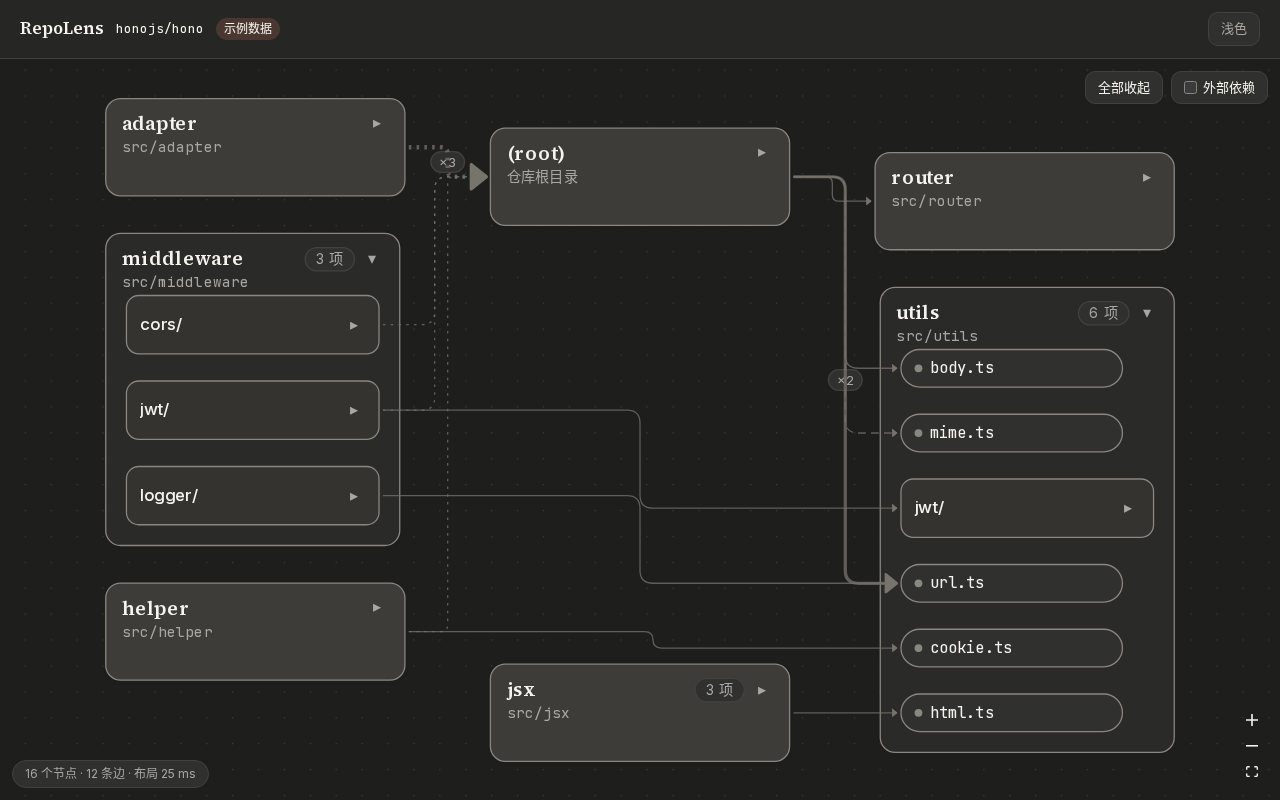
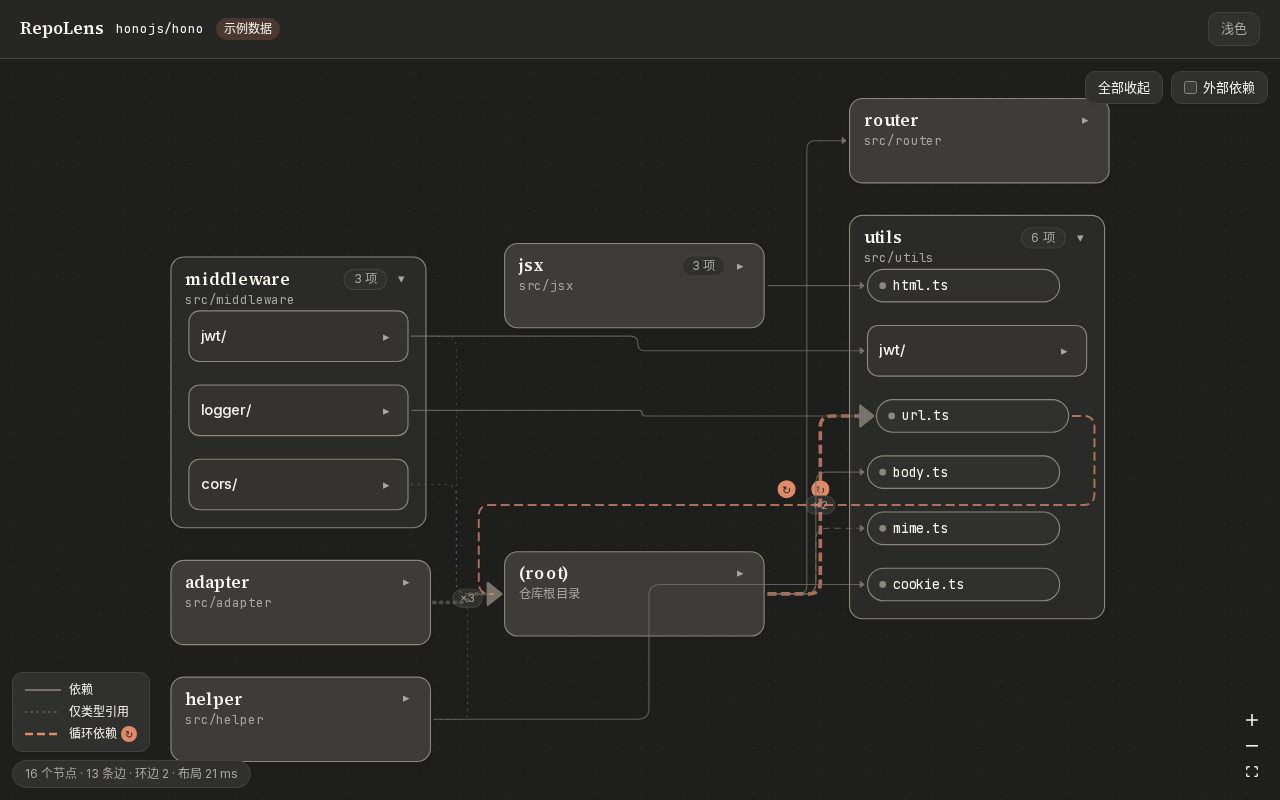
feat(web): 环边(--accent-strong 虚线 + ↻ 标记)、type-only 淡点线与图例;hono 示例 fixture 加一个示例环

Changed region(s): [[0.0312, 0.125, 0.9375, 0.9688], [0.6562, 0.875, 0.7812, 0.9062], [0.8438, 0.375, 0.875, 0.4062]]

diff --git a/apps/web/components/graph/GraphView.tsx b/apps/web/components/graph/GraphView.tsx
@@ -12,6 +12,7 @@ import {
 import {
   aggregateEdges,
   countChildren,
+  cycleEdgeKeys,
   deriveExternal,
   makeVisibility,
   SliceTooLargeError,
@@ -92,6 +93,7 @@ function Inner({ source, owner, repo, engine }: GraphViewProps) {
     const vis = makeVisibility(state.nodes, state.expanded, source.parentOf);
     const visible = state.nodes.filter((n) => vis.isVisible(n.id));
     let edges = aggregateEdges(state.edges, vis.visibleAncestor);
+    const cycleKeys = cycleEdgeKeys(state.edges, source.cycles?.() ?? [], vis.visibleAncestor);
     let nodes = visible;
     if (state.includeExternal) {
       const files = state.nodes.filter((n) => n.type === 'file');
@@ -99,7 +101,7 @@ function Inner({ source, owner, repo, engine }: GraphViewProps) {
       nodes = [...visible, ...ext.nodes];
       edges = [...edges, ...ext.edges];
     }
-    return { nodes, edges };
+    return { nodes, edges, cycleKeys };
   }, [state.nodes, state.edges, state.expanded, state.includeExternal, source]);
 
   useEffect(() => {
@@ -118,10 +120,20 @@ function Inner({ source, owner, repo, engine }: GraphViewProps) {
           for (const [id, [x, y]] of Object.entries(file.positions))
             if (layout.positions.has(id)) layout.positions.set(id, { x, y });
         setFlow(
-          toFlow(derived.nodes, derived.edges, layout, state.expanded, countChildren(state.nodes)),
+          toFlow(
+            derived.nodes,
+            derived.edges,
+            layout,
+            state.expanded,
+            countChildren(state.nodes),
+            derived.cycleKeys,
+          ),
         );
+        const nCycle = derived.edges.filter((e) =>
+          derived.cycleKeys.has(`${e.source}->${e.target}`),
+        ).length;
         setStatus(
-          `${derived.nodes.length} 个节点 · ${derived.edges.length} 条边 · 布局 ${Math.round(performance.now() - t0)} ms`,
+          `${derived.nodes.length} 个节点 · ${derived.edges.length} 条边${nCycle ? ` · 环边 ${nCycle}` : ''} · 布局 ${Math.round(performance.now() - t0)} ms`,
         );
         requestAnimationFrame(() => fitView({ padding: 0.12, duration: 300 }));
       })
@@ -185,6 +197,7 @@ function Inner({ source, owner, repo, engine }: GraphViewProps) {
           <Background variant={BackgroundVariant.Dots} gap={20} size={1} color="var(--border)" />
           <Controls showInteractive={false} position="bottom-right" />
         </ReactFlow>
+        <Legend />
         <div
           role="status"
           className="absolute bottom-3 left-3 z-10 rounded-full border border-line bg-panel px-3 py-1 text-[12px] text-muted"
@@ -196,6 +209,59 @@ function Inner({ source, owner, repo, engine }: GraphViewProps) {
         </div>
       </div>
     </ToggleContext.Provider>
+  );
+}
+
+/** 图例:投屏时靠颜色 + 线型 + 标记三重区分 */
+function Legend() {
+  const row = 'flex items-center gap-2';
+  return (
+    <div
+      aria-label="图例"
+      className="absolute bottom-12 left-3 z-10 flex flex-col gap-1 rounded-control border border-line bg-panel px-3 py-2 text-[12px] text-fg shadow-soft"
+    >
+      <div className={row}>
+        <svg width="36" height="8" aria-hidden>
+          <line x1="0" y1="4" x2="36" y2="4" stroke="var(--edge)" strokeWidth="2" />
+        </svg>
+        依赖
+      </div>
+      <div className={row}>
+        <svg width="36" height="8" aria-hidden>
+          <line
+            x1="0"
+            y1="4"
+            x2="36"
+            y2="4"
+            stroke="var(--edge)"
+            strokeWidth="2"
+            strokeDasharray="1 5"
+            strokeLinecap="round"
+            strokeOpacity="0.55"
+          />
+        </svg>
+        仅类型引用
+      </div>
+      <div className={row}>
+        <svg width="36" height="8" aria-hidden>
+          <line
+            x1="0"
+            y1="4"
+            x2="36"
+            y2="4"
+            stroke="var(--accent-strong)"
+            strokeWidth="2.5"
+            strokeDasharray="8 4"
+          />
+        </svg>
+        <span className="inline-flex items-center gap-1">
+          循环依赖
+          <span className="rounded-full bg-accent-strong px-1 text-[10px] leading-4 text-on-accent">
+            ↻
+          </span>
+        </span>
+      </div>
+    </div>
   );
 }
 

diff --git a/apps/web/components/graph/WeightedEdge.tsx b/apps/web/components/graph/WeightedEdge.tsx
@@ -3,7 +3,9 @@ import { memo } from 'react';
 import { BaseEdge, EdgeLabelRenderer, getSmoothStepPath, type EdgeProps } from '@xyflow/react';
 import { edgeWidth, type RepoFlowEdge } from '../../lib/graph/toFlow';
 
-const DASH: Record<string, string | undefined> = { 'type-only': '2 4', dynamic: '6 4' };
+// type-only:更淡的圆点线;dynamic:短虚线;环边:--accent-strong 长虚线 + 中点 ↻ 标记(优先级最高)
+const DASH: Record<string, string | undefined> = { 'type-only': '1 5', dynamic: '6 4' };
+const CYCLE_DASH = '8 4';
 
 /** 聚合边按 weight 定粗细并标注 weight;type-only 点线、dynamic 短虚线 */
 export const WeightedEdge = memo(function WeightedEdge(props: EdgeProps<RepoFlowEdge>) {
@@ -21,18 +23,37 @@ export const WeightedEdge = memo(function WeightedEdge(props: EdgeProps<RepoFlow
   const weight = data?.weight ?? 1;
   const aggregated = data?.aggregated ?? false;
   const hl = data?.highlight;
+  const cycle = data?.cycle === true;
+  const typeOnly = !cycle && data?.kind === 'type-only';
+  const base = hl === 'on' || cycle ? 'var(--accent-strong)' : 'var(--edge)';
+  const opacity = hl === 'dim' ? 0.15 : typeOnly ? 0.55 : aggregated ? 0.75 : 0.9;
   return (
     <>
       <BaseEdge
         path={path}
         markerEnd={markerEnd}
         style={{
-          stroke: hl === 'on' ? 'var(--accent-strong)' : 'var(--edge)',
-          strokeWidth: edgeWidth(weight, aggregated) + (hl === 'on' ? 0.75 : 0),
-          strokeOpacity: hl === 'dim' ? 0.15 : aggregated ? 0.75 : 0.9,
-          strokeDasharray: DASH[data?.kind ?? ''],
+          stroke: base,
+          strokeWidth: edgeWidth(weight, aggregated) + (hl === 'on' || cycle ? 0.75 : 0),
+          strokeOpacity: opacity,
+          strokeDasharray: cycle ? CYCLE_DASH : DASH[data?.kind ?? ''],
+          strokeLinecap: typeOnly ? 'round' : undefined,
         }}
       />
+      {cycle && hl !== 'dim' && (
+        <EdgeLabelRenderer>
+          <div
+            data-testid={`cycle-mark-${props.id}`}
+            title="循环依赖"
+            className="pointer-events-none absolute rounded-full bg-accent-strong px-1 text-[10px] leading-4 text-on-accent"
+            style={{
+              transform: `translate(-50%, -50%) translate(${labelX}px, ${labelY - 14}px)`,
+            }}
+          >
+            ↻
+          </div>
+        </EdgeLabelRenderer>
+      )}
       {aggregated && weight > 1 && hl !== 'dim' && (
         <EdgeLabelRenderer>
           <div

diff --git a/apps/web/lib/graph/graph.test.ts b/apps/web/lib/graph/graph.test.ts
@@ -8,6 +8,7 @@ import {
 import { SAMPLE_REPOS } from '../fixtures';
 import {
   aggregateEdges,
+  cycleEdgeKeys,
   assertSliceSize,
   makeVisibility,
   sliceGraph,
@@ -257,5 +258,32 @@ describe('highlightSelection', () => {
     expect(v.nodes.find((n) => n.id === 'a')!.selected).toBe(true);
     expect(v.edges.map((e) => e.data!.highlight)).toEqual(['on', 'on', 'dim']);
     expect([v.out, v.in]).toEqual([1, 1]);
+  });
+});
+
+describe('cycleEdgeKeys(环边)', () => {
+  const hono = GraphDataSchema.parse(SAMPLE_REPOS.hono.data);
+  const parents = new Map(hono.nodes.map((n) => [n.id, n.parentId]));
+  const topModule = (id: string): string | null => {
+    let cur: string | null | undefined = id;
+    while (cur && parents.get(cur)) cur = parents.get(cur);
+    return cur ?? null;
+  };
+  it('hono 示例 fixture 带一个合法的示例环', () => {
+    expect(hono.meta.cycles).toEqual([['f:src/request.ts', 'f:src/utils/url.ts']]);
+  });
+  it('文件层:环上的两条原始边都被标记,其余不标', () => {
+    const keys = cycleEdgeKeys(hono.edges, hono.meta.cycles!, (id) => id);
+    expect([...keys].sort()).toEqual([
+      'f:src/request.ts->f:src/utils/url.ts',
+      'f:src/utils/url.ts->f:src/request.ts',
+    ]);
+  });
+  it('上卷到 module 层后变成 m:. ⇄ m:src/utils 两条聚合边', () => {
+    const keys = cycleEdgeKeys(hono.edges, hono.meta.cycles!, topModule);
+    expect([...keys].sort()).toEqual(['m:.->m:src/utils', 'm:src/utils->m:.']);
+  });
+  it('环内两端上卷到同一节点时不产生环边', () => {
+    expect(cycleEdgeKeys(hono.edges, hono.meta.cycles!, () => 'm:.').size).toBe(0);
   });
 });

diff --git a/apps/web/lib/graph/toFlow.ts b/apps/web/lib/graph/toFlow.ts
@@ -18,6 +18,8 @@ export type RepoEdgeData = {
   kind: GraphEdge['kind'];
   /** 有选中节点时:与之相连为 on,否则 dim;无选中为 undefined */
   highlight?: 'on' | 'dim';
+  /** 在 meta.cycles 的某个环上 */
+  cycle?: boolean;
 };
 export type RepoFlowEdge = Edge<RepoEdgeData, 'weighted'>;
 
@@ -38,6 +40,7 @@ export function toFlow(
   layout: LayoutResult,
   expanded: ReadonlySet<string>,
   childCounts: ReadonlyMap<string, number>,
+  cycleKeys: ReadonlySet<string> = new Set(),
 ): { nodes: RepoFlowNode[]; edges: RepoFlowEdge[] } {
   const visibleIds = new Set(visible.map((n) => n.id));
   const placed = new Set<string>();
@@ -80,7 +83,12 @@ export function toFlow(
     target: e.target,
     type: 'weighted',
     zIndex: 2,
-    data: { weight: e.weight, aggregated: e.aggregated === true, kind: e.kind },
+    data: {
+      weight: e.weight,
+      aggregated: e.aggregated === true,
+      kind: e.kind,
+      cycle: cycleKeys.has(`${e.source}->${e.target}`),
+    },
   }));
   return { nodes, edges: flowEdges };
 }

diff --git a/apps/web/components/graph/GraphView.test.tsx b/apps/web/components/graph/GraphView.test.tsx
@@ -22,6 +22,27 @@ async function mount() {
 }
 const mwFile = '[data-testid^="node-f:src/middleware/"]';
 
+describe('<GraphView> 环边与图例', () => {
+  it('hono 示例的收起视图里有环边标记,图例含「循环依赖」与「仅类型引用」', async () => {
+    const s = SAMPLE_REPOS.hono;
+    const engine = await createInlineEngine();
+    render(
+      <div style={{ width: 1000, height: 700 }}>
+        <GraphView
+          source={createFixtureSource('honojs/hono', s.data)}
+          owner={s.owner}
+          repo={s.repo}
+          engine={engine}
+        />
+      </div>,
+    );
+    await waitFor(() => expect(screen.getByRole('status')).toHaveTextContent('环边 2'));
+    const legend = screen.getByLabelText('图例');
+    expect(legend).toHaveTextContent('循环依赖');
+    expect(legend).toHaveTextContent('仅类型引用');
+  });
+});
+
 describe('<GraphView> 交互', () => {
   it('单击节点主体只选中、不展开;Esc 取消选中', async () => {
     const { container } = await mount();

diff --git a/apps/web/lib/graph/hierarchy.ts b/apps/web/lib/graph/hierarchy.ts
@@ -188,3 +188,25 @@ export function countChildren(nodes: readonly GraphNode[]): Map<string, number> 
   for (const n of nodes) if (n.parentId) m.set(n.parentId, (m.get(n.parentId) ?? 0) + 1);
   return m;
 }
+
+/**
+ * 环上的边:原始边 (a→b) 若是某个 meta.cycles 环里相邻两项(含末项→首项),就是环边;
+ * 上卷到当前可见层级后返回 `源->目标` 键集合,原始边与聚合边都按这个键判断。
+ */
+export function cycleEdgeKeys(
+  raw: readonly GraphEdge[],
+  cycles: readonly (readonly string[])[],
+  lift: (id: string) => string | null,
+): Set<string> {
+  const pairs = new Set<string>();
+  for (const c of cycles)
+    c.forEach((id, i) => c.length > 1 && pairs.add(`${id}->${c[(i + 1) % c.length]}`));
+  const keys = new Set<string>();
+  for (const e of raw) {
+    if (!pairs.has(`${e.source}->${e.target}`)) continue;
+    const s = lift(e.source);
+    const t = lift(e.target);
+    if (s && t && s !== t) keys.add(`${s}->${t}`);
+  }
+  return keys;
+}

diff --git a/apps/web/lib/graph/source.ts b/apps/web/lib/graph/source.ts
@@ -11,6 +11,8 @@ export interface GraphSource {
   loadChildren(parentId: string | null): Promise<GraphSlice>;
   /** fixture 模式:任意节点(含未加载)的 parentId,用于把原始边上卷到可见祖先 */
   parentOf?(id: string): string | null | undefined;
+  /** meta.cycles(环上的 file id);接真实接口后来自 T-003 的响应 */
+  cycles?(): readonly (readonly string[])[];
 }
 
 export function createFixtureSource(repoLabel: string, data: unknown): GraphSource {
@@ -22,5 +24,6 @@ export function createFixtureSource(repoLabel: string, data: unknown): GraphSour
     rawEdges: () => full.edges,
     loadChildren: async (parentId) => sliceGraph(full, parentId),
     parentOf: (id) => parents.get(id),
+    cycles: () => full.meta.cycles ?? [],
   };
 }

diff --git a/docs/FRONTEND_DESIGN.md b/docs/FRONTEND_DESIGN.md
@@ -472,7 +472,7 @@ type GraphData = { nodes: GraphNode[] /* ≤300，id 唯一 */; edges: GraphEdge
 
 Tailwind 映射为 `bg-bg / bg-panel / text-fg / text-muted / border-line / bg-accent / bg-cite / bg-canvas / bg-node-* / border-node-stroke`；深色通过 `<html data-theme="dark">` 覆盖变量（`@custom-variant dark`），默认浅色，可用 `?theme=dark` 或右上角切换（存 localStorage）。实测对比度见 T-004 的 PR 描述。
 
-> 注：§6.5、§8.4、§8.5 中仍出现的旧 token 名（`--surface`、`--surface-2`、`--accent-strong`、`--text-3`、`--danger`）属于对话面板，不在 T-004 范围；实现对话面板时按 DESIGN_STYLE.md 统一替换。
+> 注：§6.5、§8.4、§8.5 中仍出现的旧 token 名（`--surface`、`--surface-2`、`--text-3`、`--danger`；`--accent-strong` 现已是 DESIGN_STYLE.md 中的正式令牌，含义见该文件）属于对话面板，不在 T-004 范围；实现对话面板时按 DESIGN_STYLE.md 统一替换。
 
 **不按目录上色**（DESIGN_STYLE：暖中性色阶，不用彩虹色）。陶土色只用于交互强调、选中描边和引用高亮。
 
@@ -488,9 +488,9 @@ Tailwind 映射为 `bg-bg / bg-panel / text-fg / text-muted / border-line / bg-a
 | external | `<ExternalNode>` | 虚线胶囊 | 150×28 | `--canvas`；默认隐藏，工具栏「外部依赖」开启 |
 
 边（`<WeightedEdge>`，smoothstep + 闭合小箭头，颜色 `--edge`）：
-- 原始边：1.25px 实线；`kind: type-only` 点线，`dynamic` 短虚线。
+- 原始边：1.25px 实线；`kind: type-only` 更淡的圆点线（`1 5`，透明度 0.55），`dynamic` 短虚线（`6 4`）。
 - `aggregated:true`：线宽 `1 + 1.5·log2(weight)`，上限 8px，不透明度 75%；weight>1 时中点显示 `×weight` 小胶囊。
-- 循环依赖（加分项）：待定，不用红色霓虹；建议 `--accent` 虚线。
+- 循环依赖：`--accent-strong` 长虚线（`8 4`，比普通边粗 0.75px，对画布 ≥3:1：浅色 4.35、深色 6.37）+ 边中点 `↻` 小标记；优先级高于 kind 线型。数据来自 `meta.cycles`（环上 file id 按依赖方向排列），原始边上卷到可见层级后判断。图区左下图例列出「依赖 / 仅类型引用 / 循环依赖」，状态条显示可见环边数。T-004 只用 hono 示例 fixture 里人为加的一个环验证，真实环数据随 T-003 接入。
 
 高亮：
 - 选中：2px `--accent` 描边 + `--cite-bg` 填充。

diff --git a/docs/DESIGN_STYLE.md b/docs/DESIGN_STYLE.md
@@ -37,7 +37,7 @@
 | `--node-external` | 外部依赖节点(虚线) | `#F0EEE6` | `#262624` |
 | `--node-stroke` | 节点描边 | `#7A756A` | `#8A877F` |
 | `--node-muted` | 节点内次要文字 | `#5C5B59` | `#A8A7A2` |
-| `--edge` | 依赖边 | `#8A8579` | `#77746C` |
+| `--edge` | 依赖边(`type-only` 用同色圆点线、透明度 0.55;循环依赖边改用 `--accent-strong` 长虚线 + `↻` 标记) | `#8A8579` | `#77746C` |
 | 选中节点 | `--accent-strong` 2px 描边 + 引用高亮底色 | 同上 | 同上 |
 
 - **字体**:标题使用衬线字体(`"Tiempos Headline", "Source Serif 4", Georgia, serif`),正文使用无衬线(`system-ui, "Inter", sans-serif`),代码使用等宽(`"JetBrains Mono", ui-monospace, monospace`)。开源项目不得内嵌商业字体,实际加载 Source Serif 4 与 Inter;中文标题回退 Noto Serif SC(next/font,`display: swap`、不 preload,按 unicode-range 分片只下载用到的字)。

diff --git a/apps/web/fixtures/README.md b/apps/web/fixtures/README.md
@@ -5,3 +5,4 @@
 - 只包含「入库数据」:module / dir / file 节点和 file→file 原始边(`weight=1`),file 节点带 `externalDeps`。
   `x:` 外部节点与 `aggregated: true` 聚合边属于 API 层派生数据,这里不存,由 `lib/graph` 按同样规则现算(模拟 API 行为)。
 - 由 `scripts/gen-sample-fixtures.mjs` 生成;校验见 `lib/fixtures/fixtures.test.ts`(用 `@repolens/shared` 的 `GraphDataSchema`)。
+- **环(示例数据)**:hono 示例里人为加了一条 `src/utils/url.ts → src/request.ts` 回边,并在 `meta.cycles` 写入 `[["f:src/request.ts","f:src/utils/url.ts"]]`,只用于验证环边样式;不代表 hono 真实依赖。真实环数据等 T-003。
